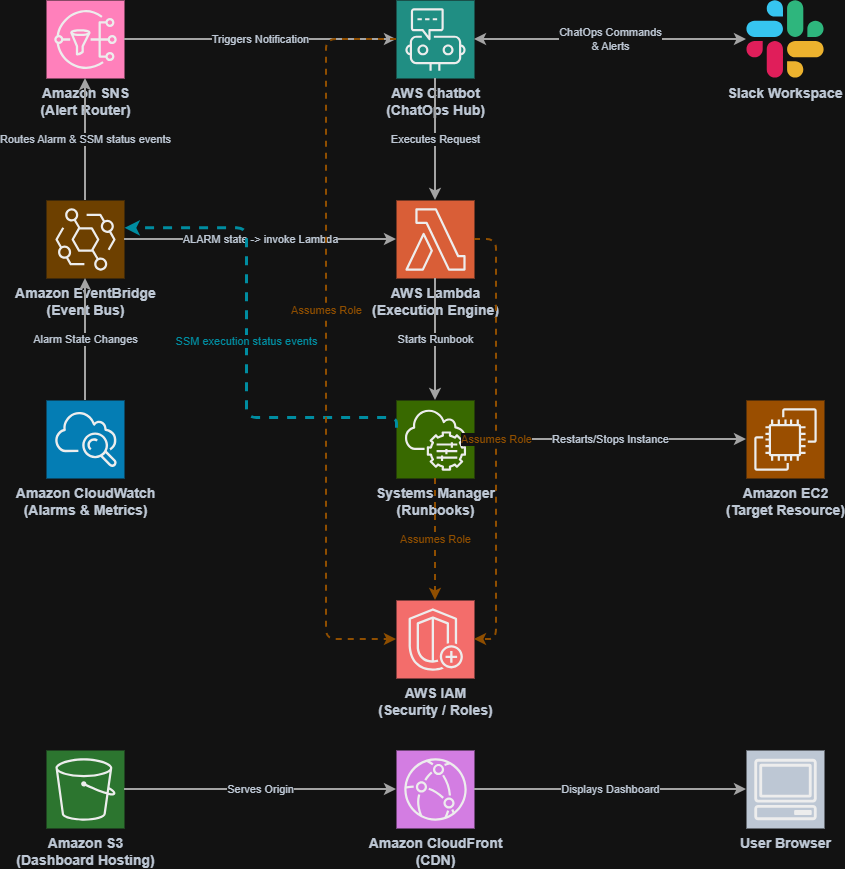
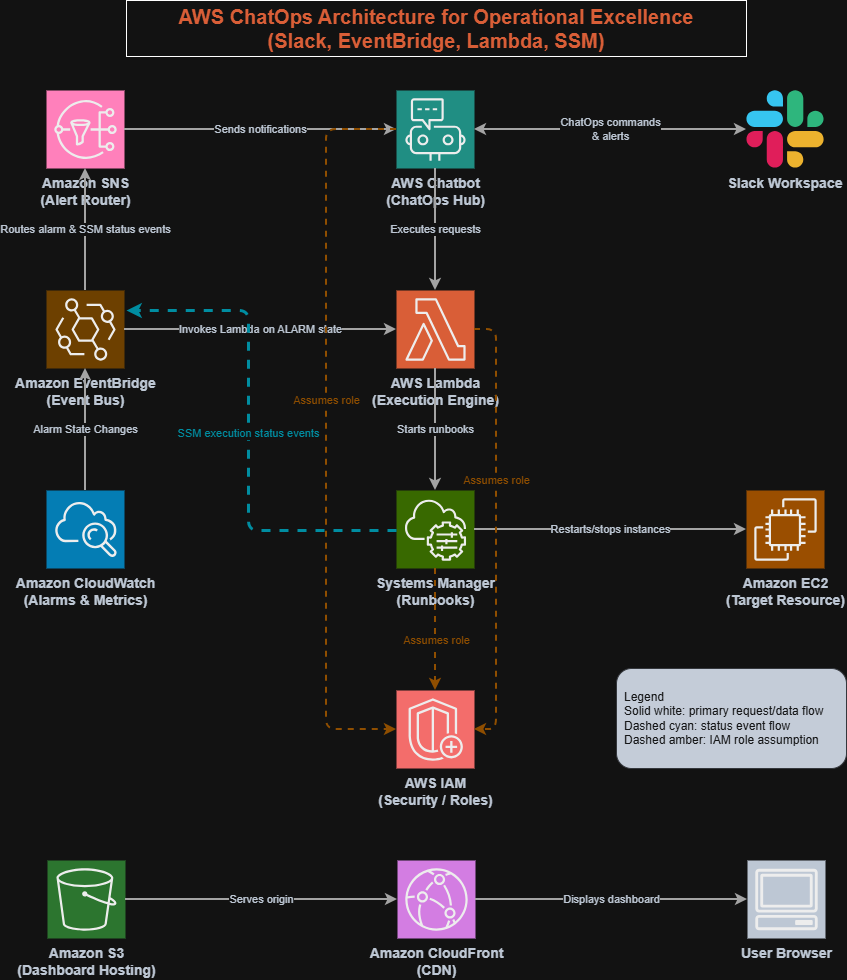
improved ChatOps architecture flows and improve dashed edge visibility in draw.io

diff --git a/DOCUMENTATION.md b/DOCUMENTATION.md
@@ -1,4 +1,4 @@
-# Operational Excellence Pillar — ChatOps Bot on AWS
+# AWS ChatOps Architecture for Operational Excellence
 ## Real-Time AWS Operations from Slack
 
 ---
@@ -12,25 +12,13 @@ by building a ChatOps bot that integrates AWS with Slack for real-time operation
 
 ---
 
-## Architecture
+## ## Project Structure
 
-```
-Slack Workspace
-     ↑  ↓
-AWS Chatbot  ←──────────────────────────────┐
-     ↑                                       │
-EventBridge  ←──  CloudWatch Alarms          │
-     ↑                                       │
-Lambda Functions  ←──  SSM Documents         │
-     ↑                                       │
-IAM Roles & Policies (secure access control) │
-     ↑                                       │
-Optional Dashboard: S3 + CloudFront ─────────┘
-```
+![AWS ChatOps Architecture for Operational Excellence (Slack, EventBridge, Lambda, SSM)](diagram.png)
 
----
+*End-to-end alerting and remediation flow aligned with the AWS Well-Architected Operational Excellence pillar.*
 
-## Project Structure
+### Directory flow
 
 ```
 operational-excellence/
